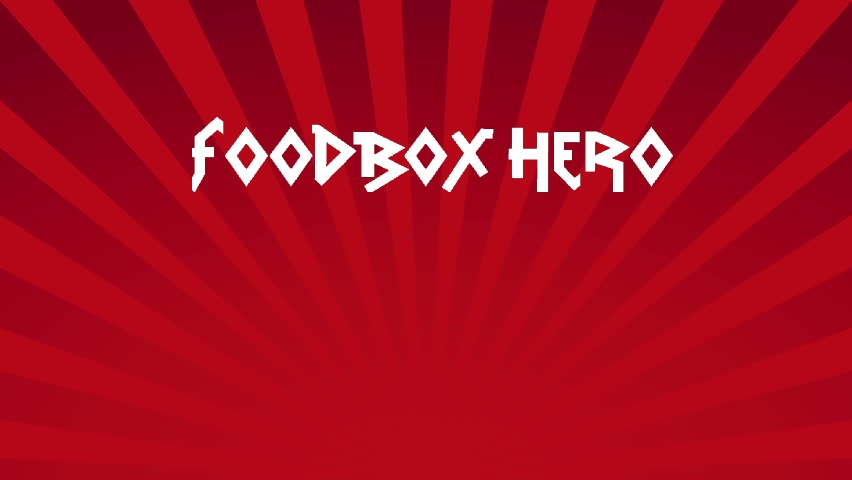
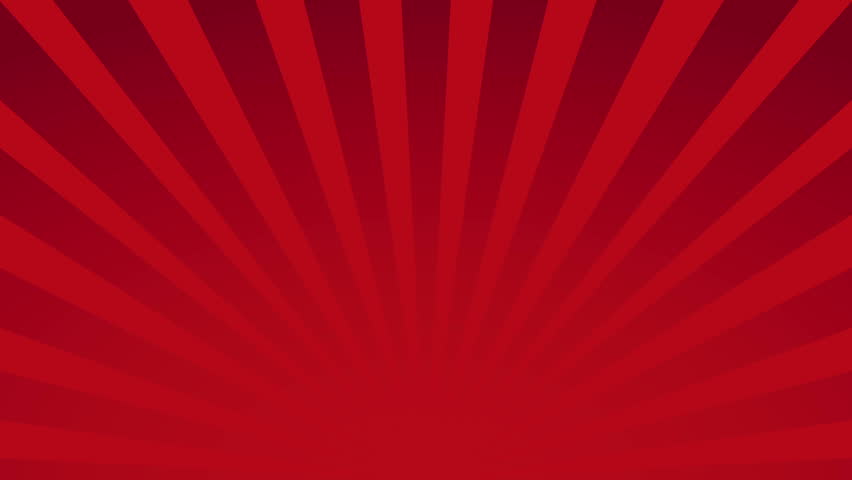
materialize template

Changed region(s): [[0.2136, 0.25, 0.7934, 0.4062]]

diff --git a/index.html b/index.html
@@ -15,11 +15,18 @@
     <div class="nav-wrapper container">
       <a id="logo-container" href="images/logo.png" class="brand-logo"></a>
       <ul class="right hide-on-med-and-down">
-        <li><a href="#">Navbar Link</a></li>
+        <li><a href="#">Home</a></li>
+        <li><a href="#">Recieve</a></li>
+        <li><a href="#">Donate</a></li>
+                
       </ul>
 
       <ul id="nav-mobile" class="sidenav">
-        <li><a href="#">Navbar Link</a></li>
+        <li><a href="#">Home</a></li>
+        <li><a href="#">Recieve</a></li>
+        <li><a href="#">Donate</a></li>
+        
+        
       </ul>
       <a href="images/logo.png" data-target="nav-mobile" class="sidenav-trigger"><i class="material-icons">menu</i></a>
     </div>
@@ -29,8 +36,8 @@
     <div class="section no-pad-bot">
       <div class="container">
         <br><br>
-        <h1 class="header center teal-text text-lighten-2">
-          <br><br>
+        <h1 class="header center white-text text-lighten-2">
+        FoodBox Hero
         </h1>
         <br><br>
         <div class="row center">
@@ -57,7 +64,7 @@
             <h2 class="center brown-text"><i class="material-icons">palette</i></h2>
             <h5 class="center">What we do</h5>
 
-            <p class="light">We did most of the heavy lifting for you to provide a default stylings that incorporate our custom components. Additionally, we refined animations and transitions to provide a smoother experience for developers.</p>
+            <p class="light">Here at FoodBox Hero we aim to end the global epidimic of food waste while simultaneously helping those in need.</p>
           </div>
         </div>
 
@@ -66,7 +73,7 @@
             <h2 class="center brown-text"><i class="material-icons">send</i></h2>
             <h5 class="center">Our mission</h5>
 
-            <p class="light">By utilizing elements and principles of Material Design, we were able to create a framework that incorporates components and animations that provide more feedback to users. Additionally, a single underlying responsive system across all platforms allow for a more unified user experience.</p>
+            <p class="light">With 1.3 billion tons of food wasted each year it only makes sense to put some of that in the hands of the less fortunate. One in seven Americans face hunger each day, and we aim to lower that number one box at a time.</p>
           </div>
         </div>
 
@@ -75,7 +82,7 @@
             <h2 class="center brown-text"><i class="material-icons">people</i></h2>
             <h5 class="center">Who we are</h5>
 
-            <p class="light">We have provided detailed documentation as well as specific code examples to help new users get started. We are also always open to feedback and can answer any questions a user may have about Materialize.</p>
+            <p class="light">We are a group of like minded individuals with a common philanthropic goal to end world hunger. </p>
           </div>
         </div>
       </div>
@@ -105,7 +112,7 @@
         <div class="col s12 center">
           <h3><i class="mdi-content-send brown-text"></i></h3>
           <h4>How it works</h4>
-          <p class="left-align light">Lorem ipsum dolor sit amet, consectetur adipiscing elit. Nullam scelerisque id nunc nec volutpat. Etiam pellentesque tristique arcu, non consequat magna fermentum ac. Cras ut ultricies eros. Maecenas eros justo, ullamcorper a sapien id, viverra ultrices eros. Morbi sem neque, posuere et pretium eget, bibendum sollicitudin lacus. Aliquam eleifend sollicitudin diam, eu mattis nisl maximus sed. Nulla imperdiet semper molestie. Morbi massa odio, condimentum sed ipsum ac, gravida ultrices erat. Nullam eget dignissim mauris, non tristique erat. Vestibulum ante ipsum primis in faucibus orci luctus et ultrices posuere cubilia Curae;</p>
+          <p class="left-align light">We have partnered with resturaunts in your area. By signing up you will be able to search these buisnesses for meals that are leftover at the end of the day. Once you have selected a meal you want you will pick it up at a preschedualed time at the resturaunt of your choice. </p>
         </div>
       </div>
 
@@ -155,6 +162,7 @@
   <script src="https://code.jquery.com/jquery-2.1.1.min.js"></script>
   <script src="js/materialize.js"></script>
   <script src="js/init.js"></script>
+  <script src="js/index.js"></script>
 
   </body>
 </html>
